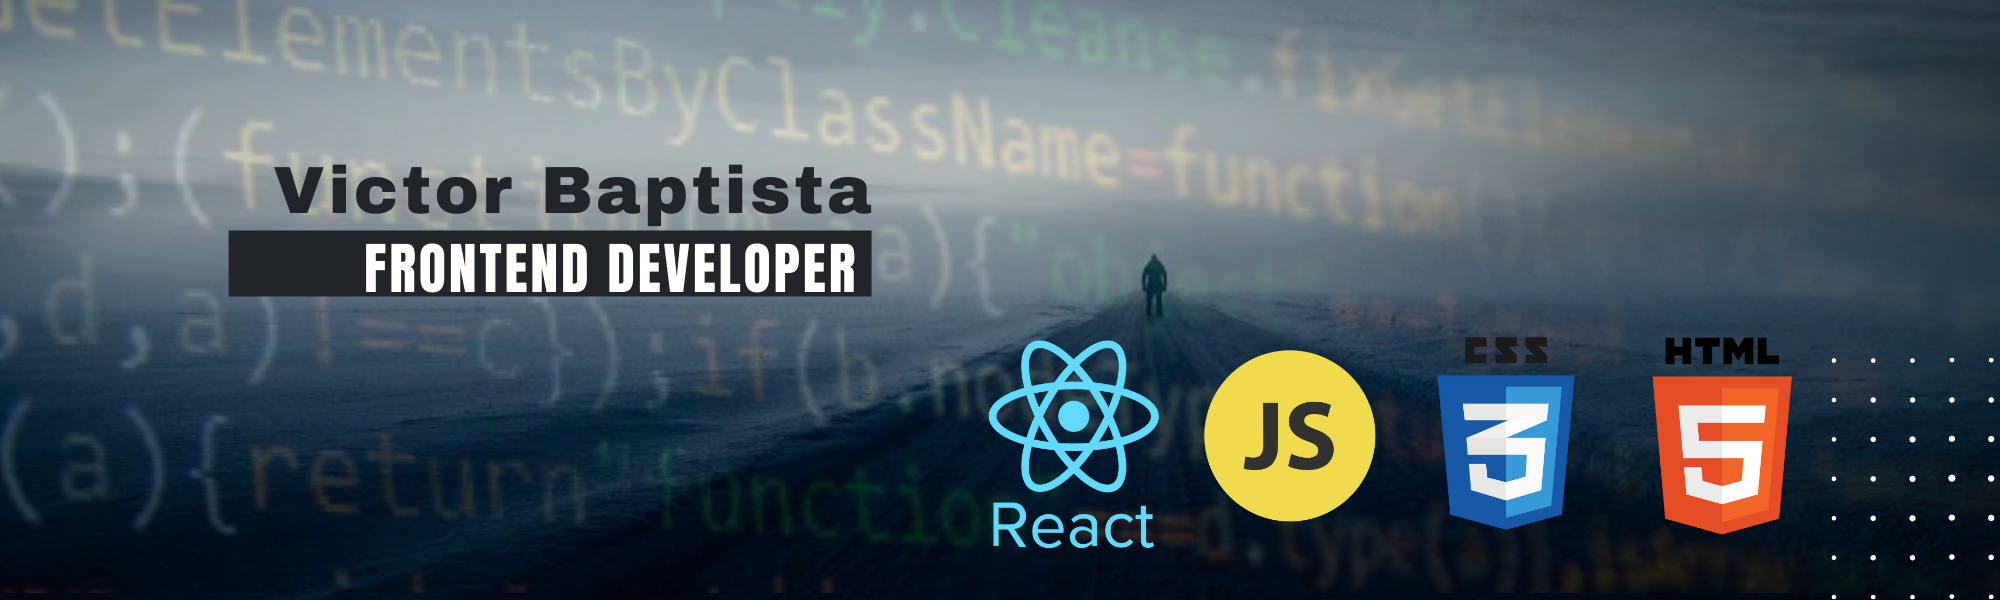
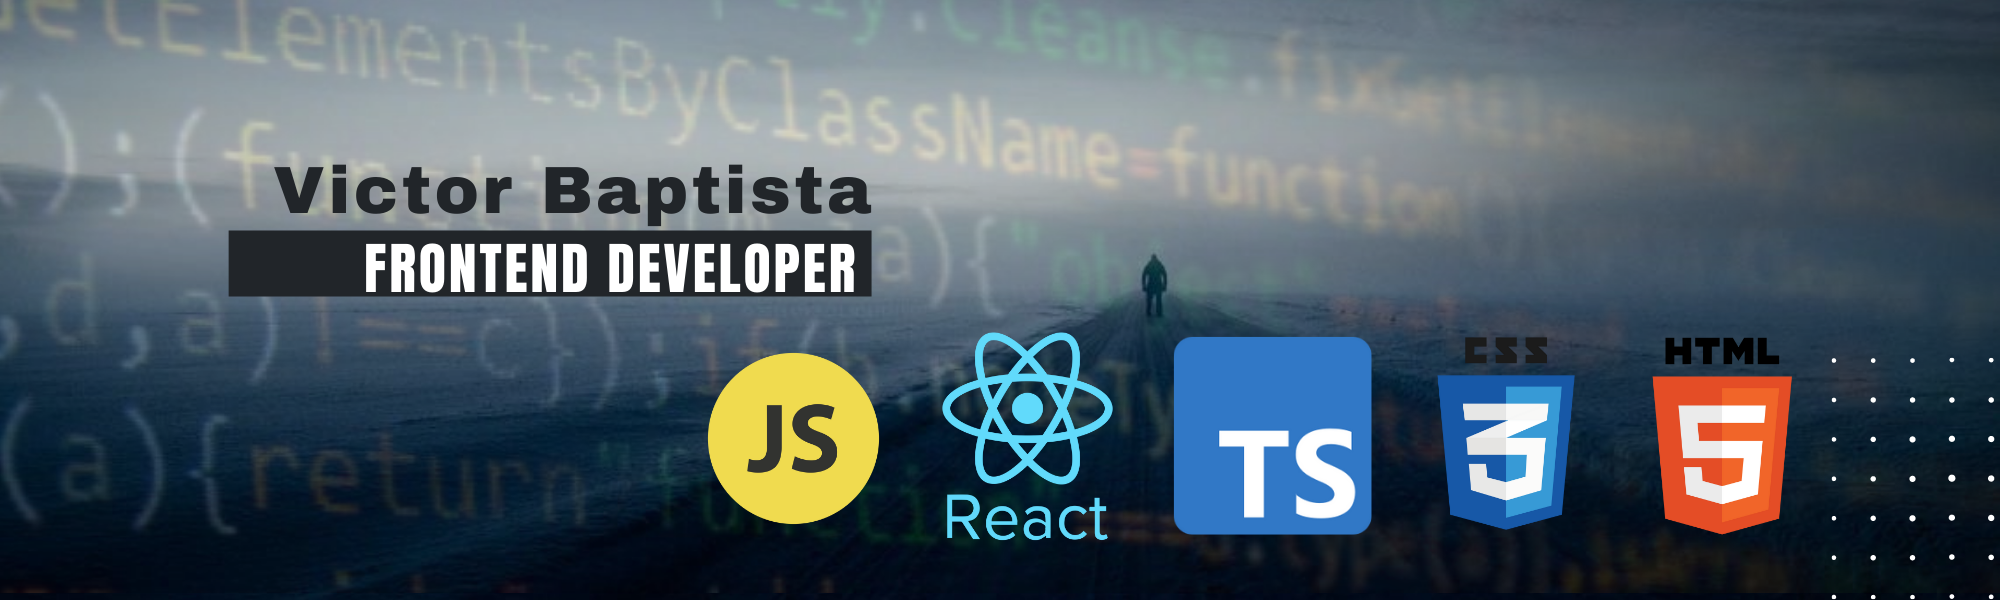
Typescript skill plus

Changed region(s): [[0.341, 0.54, 0.713, 0.93]]

diff --git a/build/static/js/main.23c40987.chunk.js b/build/static/js/main.23c40987.chunk.js
@@ -1,0 +1,2 @@
[1 lines of base64/hex data omitted]
+//# sourceMappingURL=main.23c40987.chunk.js.map

diff --git a/build/index.html b/build/index.html
@@ -1,1 +1,1 @@
-<!doctype html><html lang="en"><head><meta charset="utf-8"/><link rel="icon" href="/favicon.ico"/><meta name="viewport" content="width=device-width,initial-scale=1"/><meta name="theme-color" content="#000000"/><meta name="description" content="Web site created using create-react-app"/><link rel="apple-touch-icon" href="/logo192.png"/><link rel="manifest" href="/manifest.json"/><title>React App</title><link href="/static/css/main.53055094.chunk.css" rel="stylesheet"></head><body><noscript>You need to enable JavaScript to run this app.</noscript><div id="root"></div><script>!function(e){function r(r){for(var n,i,a=r[0],c=r[1],l=r[2],s=0,p=[];s<a.length;s++)i=a[s],Object.prototype.hasOwnProperty.call(o,i)&&o[i]&&p.push(o[i][0]),o[i]=0;for(n in c)Object.prototype.hasOwnProperty.call(c,n)&&(e[n]=c[n]);for(f&&f(r);p.length;)p.shift()();return u.push.apply(u,l||[]),t()}function t(){for(var e,r=0;r<u.length;r++){for(var t=u[r],n=!0,a=1;a<t.length;a++){var c=t[a];0!==o[c]&&(n=!1)}n&&(u.splice(r--,1),e=i(i.s=t[0]))}return e}var n={},o={1:0},u=[];function i(r){if(n[r])return n[r].exports;var t=n[r]={i:r,l:!1,exports:{}};return e[r].call(t.exports,t,t.exports,i),t.l=!0,t.exports}i.e=function(e){var r=[],t=o[e];if(0!==t)if(t)r.push(t[2]);else{var n=new Promise((function(r,n){t=o[e]=[r,n]}));r.push(t[2]=n);var u,a=document.createElement("script");a.charset="utf-8",a.timeout=120,i.nc&&a.setAttribute("nonce",i.nc),a.src=function(e){return i.p+"static/js/"+({}[e]||e)+"."+{3:"0bbc9045"}[e]+".chunk.js"}(e);var c=new Error;u=function(r){a.onerror=a.onload=null,clearTimeout(l);var t=o[e];if(0!==t){if(t){var n=r&&("load"===r.type?"missing":r.type),u=r&&r.target&&r.target.src;c.message="Loading chunk "+e+" failed.\n("+n+": "+u+")",c.name="ChunkLoadError",c.type=n,c.request=u,t[1](c)}o[e]=void 0}};var l=setTimeout((function(){u({type:"timeout",target:a})}),12e4);a.onerror=a.onload=u,document.head.appendChild(a)}return Promise.all(r)},i.m=e,i.c=n,i.d=function(e,r,t){i.o(e,r)||Object.defineProperty(e,r,{enumerable:!0,get:t})},i.r=function(e){"undefined"!=typeof Symbol&&Symbol.toStringTag&&Object.defineProperty(e,Symbol.toStringTag,{value:"Module"}),Object.defineProperty(e,"__esModule",{value:!0})},i.t=function(e,r){if(1&r&&(e=i(e)),8&r)return e;if(4&r&&"object"==typeof e&&e&&e.__esModule)return e;var t=Object.create(null);if(i.r(t),Object.defineProperty(t,"default",{enumerable:!0,value:e}),2&r&&"string"!=typeof e)for(var n in e)i.d(t,n,function(r){return e[r]}.bind(null,n));return t},i.n=function(e){var r=e&&e.__esModule?function(){return e.default}:function(){return e};return i.d(r,"a",r),r},i.o=function(e,r){return Object.prototype.hasOwnProperty.call(e,r)},i.p="/",i.oe=function(e){throw console.error(e),e};var a=this["webpackJsonpvictor-cv"]=this["webpackJsonpvictor-cv"]||[],c=a.push.bind(a);a.push=r,a=a.slice();for(var l=0;l<a.length;l++)r(a[l]);var f=c;t()}([])</script><script src="/static/js/2.53e7f6aa.chunk.js"></script><script src="/static/js/main.7fbc71e3.chunk.js"></script></body></html>
+<!doctype html><html lang="en"><head><meta charset="utf-8"/><link rel="icon" href="/favicon.ico"/><meta name="viewport" content="width=device-width,initial-scale=1"/><meta name="theme-color" content="#000000"/><meta name="description" content="Web site created using create-react-app"/><link rel="apple-touch-icon" href="/logo192.png"/><link rel="manifest" href="/manifest.json"/><title>React App</title><link href="/static/css/main.0d9c4214.chunk.css" rel="stylesheet"></head><body><noscript>You need to enable JavaScript to run this app.</noscript><div id="root"></div><script>!function(e){function r(r){for(var n,i,a=r[0],c=r[1],l=r[2],s=0,p=[];s<a.length;s++)i=a[s],Object.prototype.hasOwnProperty.call(o,i)&&o[i]&&p.push(o[i][0]),o[i]=0;for(n in c)Object.prototype.hasOwnProperty.call(c,n)&&(e[n]=c[n]);for(f&&f(r);p.length;)p.shift()();return u.push.apply(u,l||[]),t()}function t(){for(var e,r=0;r<u.length;r++){for(var t=u[r],n=!0,a=1;a<t.length;a++){var c=t[a];0!==o[c]&&(n=!1)}n&&(u.splice(r--,1),e=i(i.s=t[0]))}return e}var n={},o={1:0},u=[];function i(r){if(n[r])return n[r].exports;var t=n[r]={i:r,l:!1,exports:{}};return e[r].call(t.exports,t,t.exports,i),t.l=!0,t.exports}i.e=function(e){var r=[],t=o[e];if(0!==t)if(t)r.push(t[2]);else{var n=new Promise((function(r,n){t=o[e]=[r,n]}));r.push(t[2]=n);var u,a=document.createElement("script");a.charset="utf-8",a.timeout=120,i.nc&&a.setAttribute("nonce",i.nc),a.src=function(e){return i.p+"static/js/"+({}[e]||e)+"."+{3:"0bbc9045"}[e]+".chunk.js"}(e);var c=new Error;u=function(r){a.onerror=a.onload=null,clearTimeout(l);var t=o[e];if(0!==t){if(t){var n=r&&("load"===r.type?"missing":r.type),u=r&&r.target&&r.target.src;c.message="Loading chunk "+e+" failed.\n("+n+": "+u+")",c.name="ChunkLoadError",c.type=n,c.request=u,t[1](c)}o[e]=void 0}};var l=setTimeout((function(){u({type:"timeout",target:a})}),12e4);a.onerror=a.onload=u,document.head.appendChild(a)}return Promise.all(r)},i.m=e,i.c=n,i.d=function(e,r,t){i.o(e,r)||Object.defineProperty(e,r,{enumerable:!0,get:t})},i.r=function(e){"undefined"!=typeof Symbol&&Symbol.toStringTag&&Object.defineProperty(e,Symbol.toStringTag,{value:"Module"}),Object.defineProperty(e,"__esModule",{value:!0})},i.t=function(e,r){if(1&r&&(e=i(e)),8&r)return e;if(4&r&&"object"==typeof e&&e&&e.__esModule)return e;var t=Object.create(null);if(i.r(t),Object.defineProperty(t,"default",{enumerable:!0,value:e}),2&r&&"string"!=typeof e)for(var n in e)i.d(t,n,function(r){return e[r]}.bind(null,n));return t},i.n=function(e){var r=e&&e.__esModule?function(){return e.default}:function(){return e};return i.d(r,"a",r),r},i.o=function(e,r){return Object.prototype.hasOwnProperty.call(e,r)},i.p="/",i.oe=function(e){throw console.error(e),e};var a=this["webpackJsonpvictor-cv"]=this["webpackJsonpvictor-cv"]||[],c=a.push.bind(a);a.push=r,a=a.slice();for(var l=0;l<a.length;l++)r(a[l]);var f=c;t()}([])</script><script src="/static/js/2.53e7f6aa.chunk.js"></script><script src="/static/js/main.23c40987.chunk.js"></script></body></html>

diff --git a/build/static/css/main.0d9c4214.chunk.css b/build/static/css/main.0d9c4214.chunk.css
@@ -1,0 +1,2 @@
+body{font-family:"Segoe UI",Tahoma,Geneva,Verdana,sans-serif;background-color:rgba(1,1,19,.932);color:silver}*,:root{padding:0;margin:0}:root{font-size:67.5%}h1{text-align:center;color:hsla(0,0%,75.3%,.952);font-size:3rem;border-bottom-style:solid;border-radius:0 0 10% 0;width:-webkit-fit-content;width:-moz-fit-content;width:fit-content}h2{color:#fff}h3{color:silver;font-size:2.3rem;width:-webkit-fit-content;width:-moz-fit-content;width:fit-content;margin-bottom:1.3rem}h4{text-align:center;font-size:3rem;margin-left:30%;margin-top:15%}nav{margin-left:0}nav li{text-align:center;margin-top:0;border-style:inset;color:silver;list-style-type:none}nav a{text-decoration:none}ul li{list-style-type:none;margin-top:2rem}ul li a{color:#fff}ul li a:visited{color:#00804f}ul li .wordpressList{font-size:2rem;margin-left:2rem}p{font-family:Georgia,"Times New Roman",Times,serif;font-size:1.8rem;text-align:justify;white-space:pre-wrap;line-height:2.6rem;color:hsla(0,0%,100%,.836)}span{color:#000}.iconsRow{margin-left:0;display:flex;flex-direction:row}.headerMobile{display:-ms-grid;display:grid;-ms-grid-columns:30% 30% 30%;grid-template-columns:30% 30% 30%;text-align:right;margin:0 5% 3% 0}.headerMobile .contactTrigger{margin-top:15%;margin-left:20%;border:transparent;background-color:transparent;width:-webkit-fit-content;width:-moz-fit-content;width:fit-content;text-align:left;font-size:4rem;color:rgba(168,185,183,.979);transition:1s linear}.headerMobile .menuTrigger{margin-top:15%;width:70px;padding:0;font-size:2.7rem;margin-left:80%;border-radius:1rem;background-color:transparent;color:#fff}.mobileContact{opacity:1;position:absolute;width:-webkit-fit-content;width:-moz-fit-content;width:fit-content;height:auto;border-radius:0 0 1rem 0;background-color:rgba(255,196,0,.904);transition:width 1s linear}.closeContacts{background-color:rgba(165,83,24,.459);width:100%;padding:5%;border:red}.mobileContactSection{margin-left:5%;padding:3rem 5rem 4rem 0;width:-webkit-fit-content;width:-moz-fit-content;width:fit-content;text-align:left}.mobileContactSection .mobileContactIcon{width:4rem;margin-top:2rem}.menuActive{position:absolute;width:100%}.menuActive .closeMenu{margin:0;background-color:#a55318;width:100%;padding:3% 0;border:red}.menuActive .closeMenu :hover{color:rgba(255,0,0,.527)}.menuActive .mobileButtons{border:rgba(255,0,0,.185);border-style:solid;border-width:1px;margin:0;font-size:3rem;padding:15% 0;background-color:rgba(210,105,30,.966)}.headerWrapper{background-size:cover;background-color:#000013;display:-ms-grid;display:grid;-ms-grid-columns:30% 70%;grid-template-columns:30% 70%;height:-webkit-fit-content;height:-moz-fit-content;height:fit-content}.headerWrapper .profilePic{margin:0;min-width:19rem;width:96%;height:auto}.headerWrapper .profileName{font-size:2.5rem;margin:0 0 1.5%;padding:1%;width:-webkit-fit-content;width:-moz-fit-content;width:fit-content;border-bottom-style:ridge;border-radius:0 0 10% 30%;border-color:#505c7e}.headerWrapper .headContainer2{margin-right:5%;margin-left:0;display:flex;flex-direction:column}@media (max-width:960px){.headerWrapper .headContainer2{margin-top:2.5rem;margin-bottom:2%}}@media (min-width:961px){.headerWrapper .headContainer2{margin-top:5rem}}.headerWrapper .headContainer2 .aboutMeHeader{margin:0 0 8% 9rem}@media (min-width:961px){.bodyWrapper{display:-ms-grid;display:grid;-ms-grid-columns:22% 78%;grid-template-columns:22% 78%}}.bodyWrapper .bodyContainer1{margin:10% 0 10% 5%;position:-webkit-sticky;position:sticky}.bodyWrapper .bodyContainer1 .buttons{margin:0;padding:8% 0;border:2px solid #d2bdff;border-radius:4px;cursor:pointer;font-family:"Roboto",sans-serif;background-color:#161624}.bodyWrapper .bodyContainer1 .buttons:hover{top:41%;left:50%;-webkit-transform:scaleX(110%);transform:scaleX(110%);background-color:teal;color:#ebe5f8;transition:cubic-bezier(.55,.055,.675,.19)}.bodyWrapper .bodyContainer1 .contactsWrapper{text-align:center;margin:5% 0 0;background-color:#000013;border-radius:10%;border-style:solid;border-width:.01cm;padding:4% 5%;width:-webkit-fit-content;width:-moz-fit-content;width:fit-content;height:auto}.bodyWrapper .bodyContainer1 .contactsWrapper .contactContainer{margin-top:2%;display:flex;flex-direction:row;background-color:rgba(71,83,194,.884);border-radius:6%;border-style:groove;padding:0 20% 0 0;width:-webkit-fit-content;width:-moz-fit-content;width:fit-content}.bodyWrapper .bodyContainer1 .contactsWrapper .contactContainer:hover{background-color:#fff}.bodyWrapper .bodyContainer1 .contactsWrapper .contactContainer .contactIcon{width:10%;margin-right:2%;height:-webkit-fit-content;height:-moz-fit-content;height:fit-content}.bodyWrapper .bodyContainer2{margin:2.8% .2% 2% 2%;background-color:rgba(62,70,112,.733);border-style:groove;border-width:.09cm;border-radius:1%;padding:2%}@media (min-width:961px){.bodyWrapper .bodyContainer2{width:70%}}@media (max-width:960px){.bodyWrapper .bodyContainer2{margin:1px}}.bodyWrapper .bodyContainer2 .sectionContainer{margin-bottom:3%}.bodyWrapper .bodyContainer2 .sectionContainer .aboutIcon{margin-right:1rem}.bodyWrapper .bodyContainer2 .sectionContainer .oneSoulAppImage{float:right;width:20rem;height:-webkit-fit-content;height:-moz-fit-content;height:fit-content;shape-outside:circle(90%);margin-left:2%;border-radius:4%}@media (max-width:960px){.bodyWrapper .bodyContainer2 .sectionContainer .oneSoulAppImage{width:50%}}.bodyWrapper .bodyContainer2 .sectionContainer iframe{border-radius:5%;width:100%;min-width:23rem}.toolIcon{margin:1% 2% 3% 0;width:9.5%}
+/*# sourceMappingURL=main.0d9c4214.chunk.css.map */

diff --git a/src/Components/BodyComponents/SkillsIcons.js b/src/Components/BodyComponents/SkillsIcons.js
@@ -1,6 +1,7 @@
 import React from 'react';
 import reactIcon from "/Users/Victor/Documents/PROGRAMMING/CV/victor-cv/src/Image/react-icon.png";
 import javascriptIcon from "/Users/Victor/Documents/PROGRAMMING/CV/victor-cv/src/Image/javascript-icon.png";
+import typescriptIcon from "/Users/Victor/Documents/PROGRAMMING/CV/victor-cv/src/Image/typescript-icon.png";
 import htmlIcon from "/Users/Victor/Documents/PROGRAMMING/CV/victor-cv/src/Image/html5-icon.png";
 import cssIcon from "/Users/Victor/Documents/PROGRAMMING/CV/victor-cv/src/Image/css3-icon.png";
 import wordpressIcon from "/Users/Victor/Documents/PROGRAMMING/CV/victor-cv/src/Image/wordpress-icon.png";
@@ -13,8 +14,9 @@ const SkillsIcons = () => {
     return (
         <div>
             <div className="iconsRow">
-            <img className="toolIcon" src={reactIcon}></img>
             <img className="toolIcon" src={javascriptIcon}></img>
+            <img className="toolIcon" src={reactIcon}></img>
+            <img className="toolIcon" src={typescriptIcon}></img>
             <img className="toolIcon" src={htmlIcon}></img>
             <img className="toolIcon" src={cssIcon}></img>
             <img className="toolIcon" src={wordpressIcon}></img>

diff --git a/src/Components/BodyComponents/Tools.js b/src/Components/BodyComponents/Tools.js
@@ -19,11 +19,10 @@ const Tools = ({id, title}) => {
     {
     react: 
     <>
-    <h3>React & Javascript</h3>
+    <h3>Javascript / React.js / Typescript</h3>
     <p>{`It's been a while since I started to use Javascript to create dynamic websites. 
-React is the Javascript library I'm using the most - 
-where my coding's journey is currently heading towards.
-Like a hermit, I spend hours devoted to it. Me & my coffee. I love it!`}</p>
+React is the library I use (this CV-website was built with it), and Typescript is the latest language I'm diving into. 
+Like a hermit, I spend hours devoted to it. Me & my coffee. I love it.`}</p>
     </>
     },
     {

diff --git a/src/Components/BodyComponents/Projects.js b/src/Components/BodyComponents/Projects.js
@@ -45,7 +45,7 @@ You can try the app clicking the icon below: `}
 about:<>
 <h3>Coffee-Shop Website</h3>
 {`I'm currently developing a website for a Brazilian coffee-shop, working as a freelancer. 
-Here I'm using simple vanilla Javascript.
+Here I'm using Typescript.
 
 You can try the website clicking the icon below: `}
     <br/>

diff --git a/src/Style/App.css b/src/Style/App.css
@@ -399,6 +399,6 @@ span {
 /* --- ACROSS WRAPS ---- */
 .toolIcon {
   margin: 1% 2% 3% 0%;
-  width: 10%;
+  width: 9.5%;
 }
 /*# sourceMappingURL=App.css.map */

diff --git a/src/Style/App.scss b/src/Style/App.scss
@@ -317,5 +317,5 @@ span {
 
 .toolIcon {
   margin: 1% 2% 3% 0%;
-  width: 10%;
+  width: 9.5%;
 }
